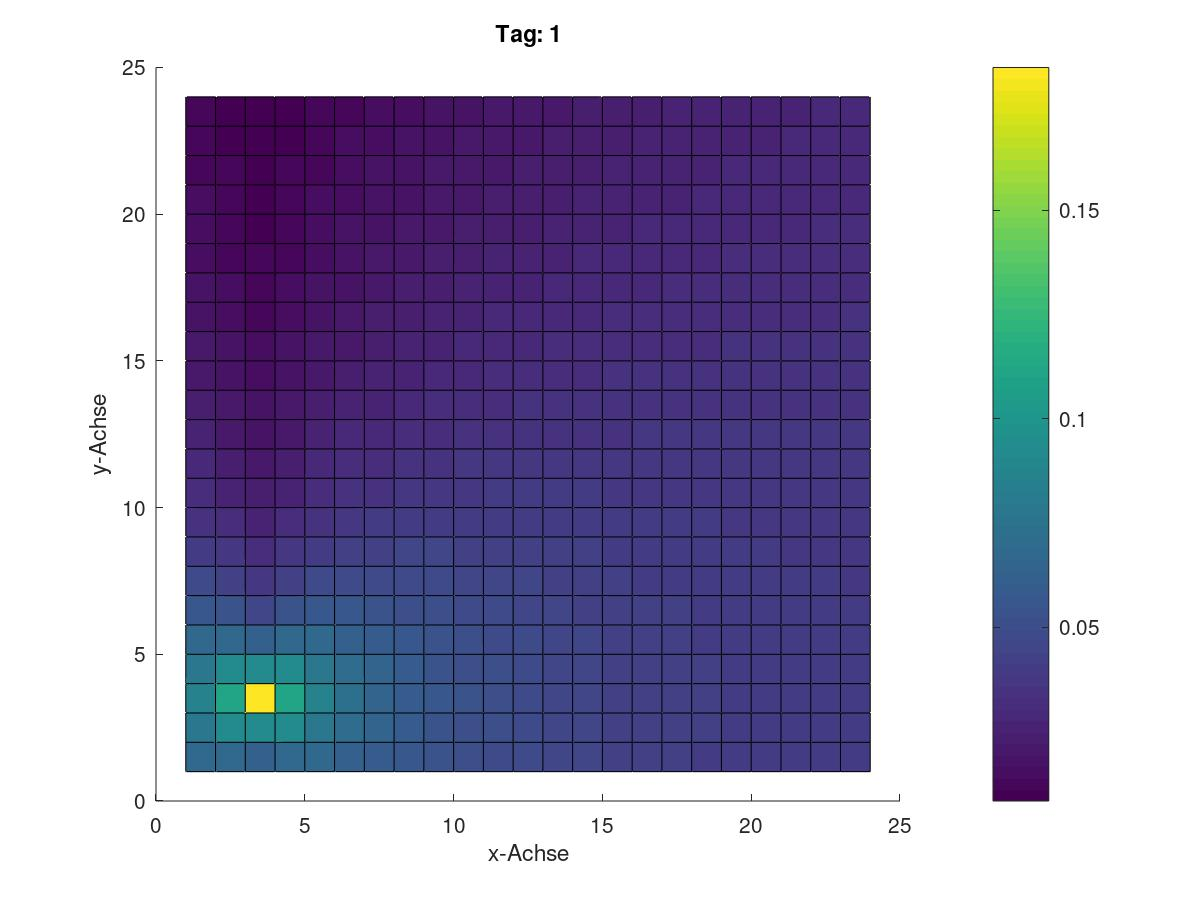
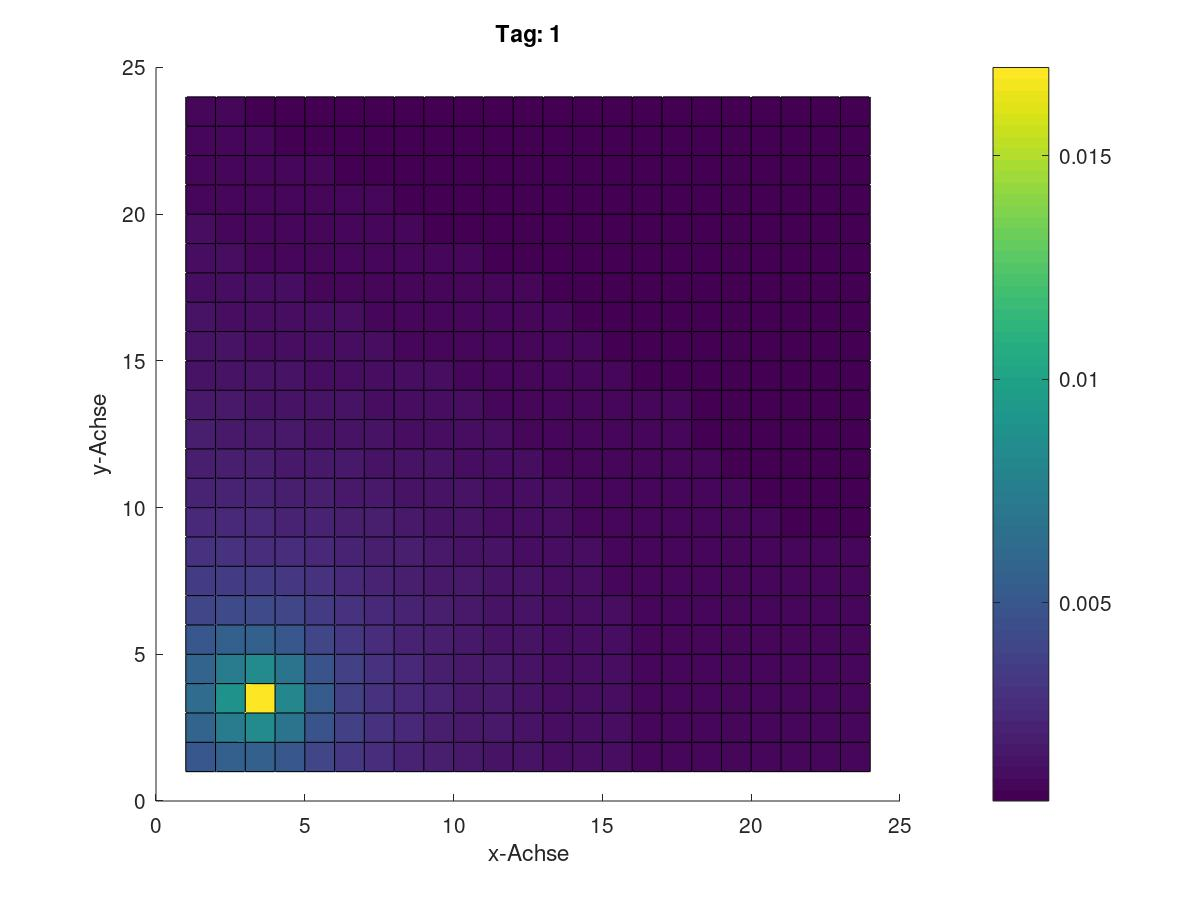
q

diff --git a/Pruefungsmodell/Test/addieren.m b/Pruefungsmodell/Test/addieren.m
@@ -1,0 +1,28 @@
+## Copyright (C) 2020 chris
+## 
+## This program is free software: you can redistribute it and/or modify it
+## under the terms of the GNU General Public License as published by
+## the Free Software Foundation, either version 3 of the License, or
+## (at your option) any later version.
+## 
+## This program is distributed in the hope that it will be useful, but
+## WITHOUT ANY WARRANTY; without even the implied warranty of
+## MERCHANTABILITY or FITNESS FOR A PARTICULAR PURPOSE.  See the
+## GNU General Public License for more details.
+## 
+## You should have received a copy of the GNU General Public License
+## along with this program.  If not, see
+## <https://www.gnu.org/licenses/>.
+
+## -*- texinfo -*- 
+## @deftypefn {} {@var{retval} =} addieren (@var{input1}, @var{input2})
+##
+## @seealso{}
+## @end deftypefn
+
+## Author: chris <chris@PFAFFMANN-PC>
+## Created: 2020-08-17
+
+function retval = addieren (input1, input2)
+ retval = input1 + input2
+endfunction

diff --git a/Pruefungsmodell/niehaus_versuch_gewichtet/distance.m b/Pruefungsmodell/niehaus_versuch_gewichtet/distance.m
@@ -40,7 +40,7 @@ if (ismatrix(G))
   endfor
   %dist
   w=1./(1+dist);
-  ws=sum(w);
+  ws=sum(w(:));
   dist=w./ws;
   else
     error("getDistance: Coordinates must be smaller than the size of the matrix")

diff --git a/Pruefungsmodell/niehaus_versuch_gewichtet/dev.m b/Pruefungsmodell/niehaus_versuch_gewichtet/dev.m
@@ -29,6 +29,6 @@ for t=1:T
   colorbar
   saveas((t),["GLP_Bewegung_Tag_" num2str(t-1) ".jpg"])
   G=G_neu;
-endfor
   sum(sum(G_neu))
   max(max(G_neu))
+endfor

diff --git a/Pruefungsmodell/niehaus_versuch_gewichtet/test.m b/Pruefungsmodell/niehaus_versuch_gewichtet/test.m
@@ -1,0 +1,5 @@
+G=zeros(8,8);
+y_Coord=5;
+x_Coord=2;
+
+distance (G,y_Coord,x_Coord);

diff --git a/Pruefungsmodell/Test/skript.m b/Pruefungsmodell/Test/skript.m
@@ -1,0 +1,6 @@
+clear
+a=5;
+b=7;
+
+c = a+b;
+d = addieren(a,b);
